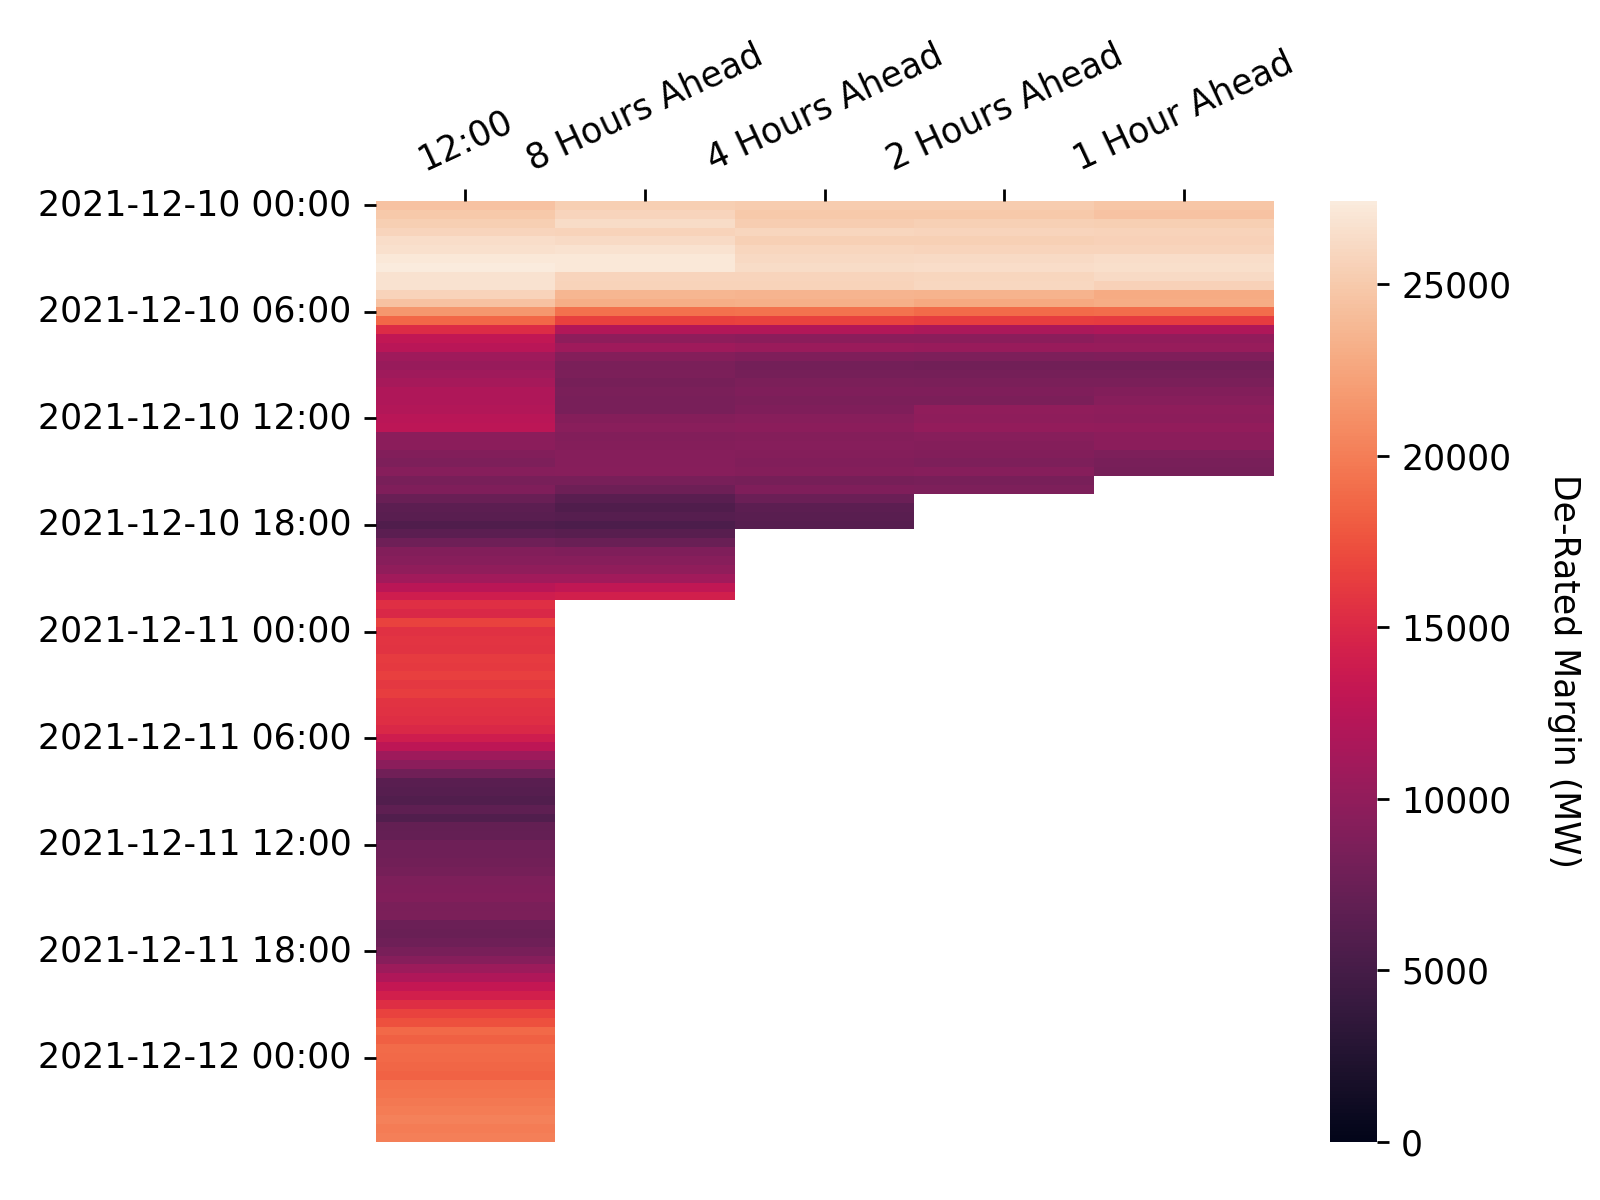
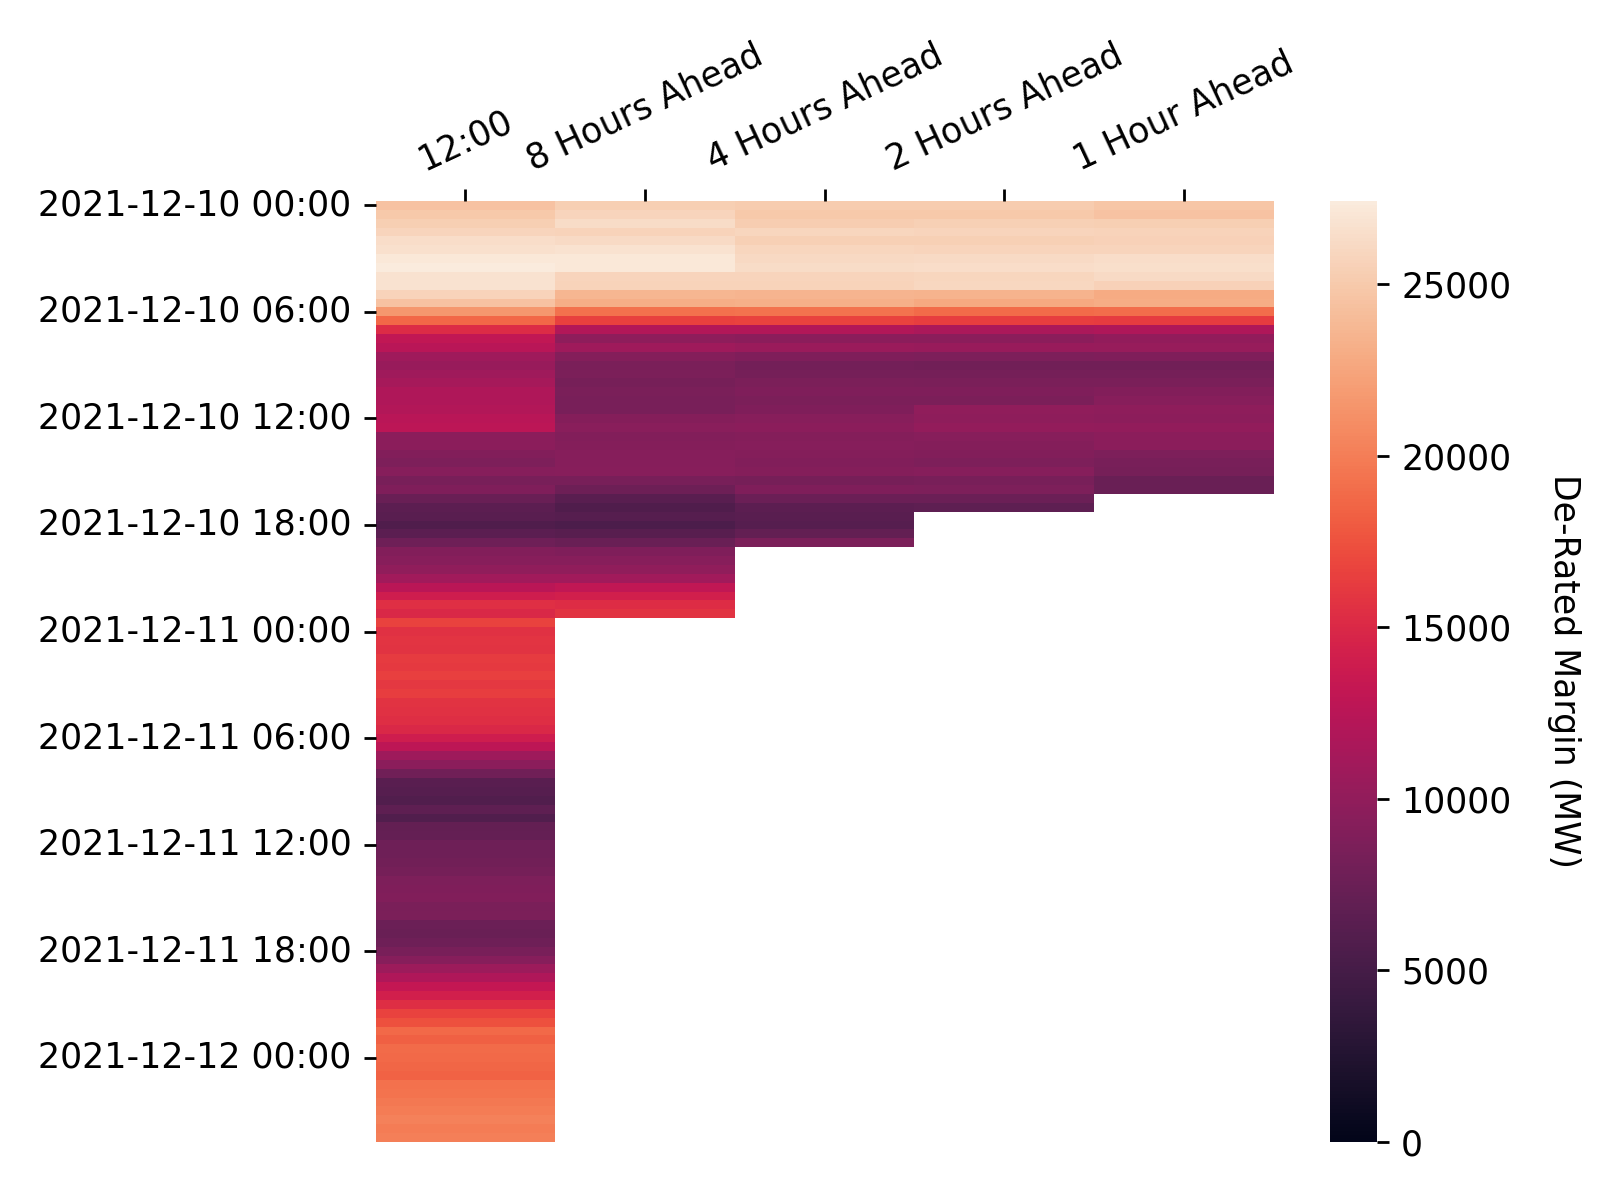
Apply automatic changes

Changed region(s): [[0.4375, 0.37, 0.8125, 0.4625], [0.3438, 0.4933, 0.4688, 0.5242]]

diff --git a/docs/js/map.js b/docs/js/map.js
@@ -144,7 +144,7 @@ document.addEventListener("DOMContentLoaded", function() {
                 follow: 1
             });
             mymap.addControl(sliderControl);
-            sliderControl.startSlider(334);
+            sliderControl.startSlider(335);
         });
     });
 });

diff --git a/docs/visualisations.md b/docs/visualisations.md
@@ -60,7 +60,7 @@ In each settlement period the system operator publishes the de-rated margin fore
 * At 1200 hours on each calendar day for all Settlement Periods for which Gate Closure has not yet passed and which occur within the current Operational Day or the following Operational Day; and
 * At eight, four, two and one hour(s) prior to the beginning of the Settlement Period to which the De-Rated Margin Forecast relates.
 
-These figures will be updated on an hourly basis, the last update was at: 2021-12-10 14:40
+These figures will be updated on an hourly basis, the last update was at: 2021-12-10 15:15
 
 <br>
 
@@ -83,7 +83,7 @@ The following heatmap shows how the more recent de-rated margin forecasts deviat
 
 ### Power Output Map
 
-Last Updated: 2021-12-10 14:40
+Last Updated: 2021-12-10 15:15
 
 This map shows the power output of individual plants connected to the transmission grid as stated in their most recent Physical Notifications. This data can be retrieved through the *PHYBMDATA* BMRS stream, the out-turn data can be viewed one week later through the *B1610* stream. The scrollbar at the top of the map can be used to view how the generation sources have changed their output over the last week, the layer control can be used to toggle on/off the transmission network, and the plants themselves can be clicked to reveal additional information. The plant location data used in this map has been taking from a sister project, [the Power Station Dictionary](https://osuked.github.io/Power-Station-Dictionary/), which aims to link between data about individual power plants.
 
